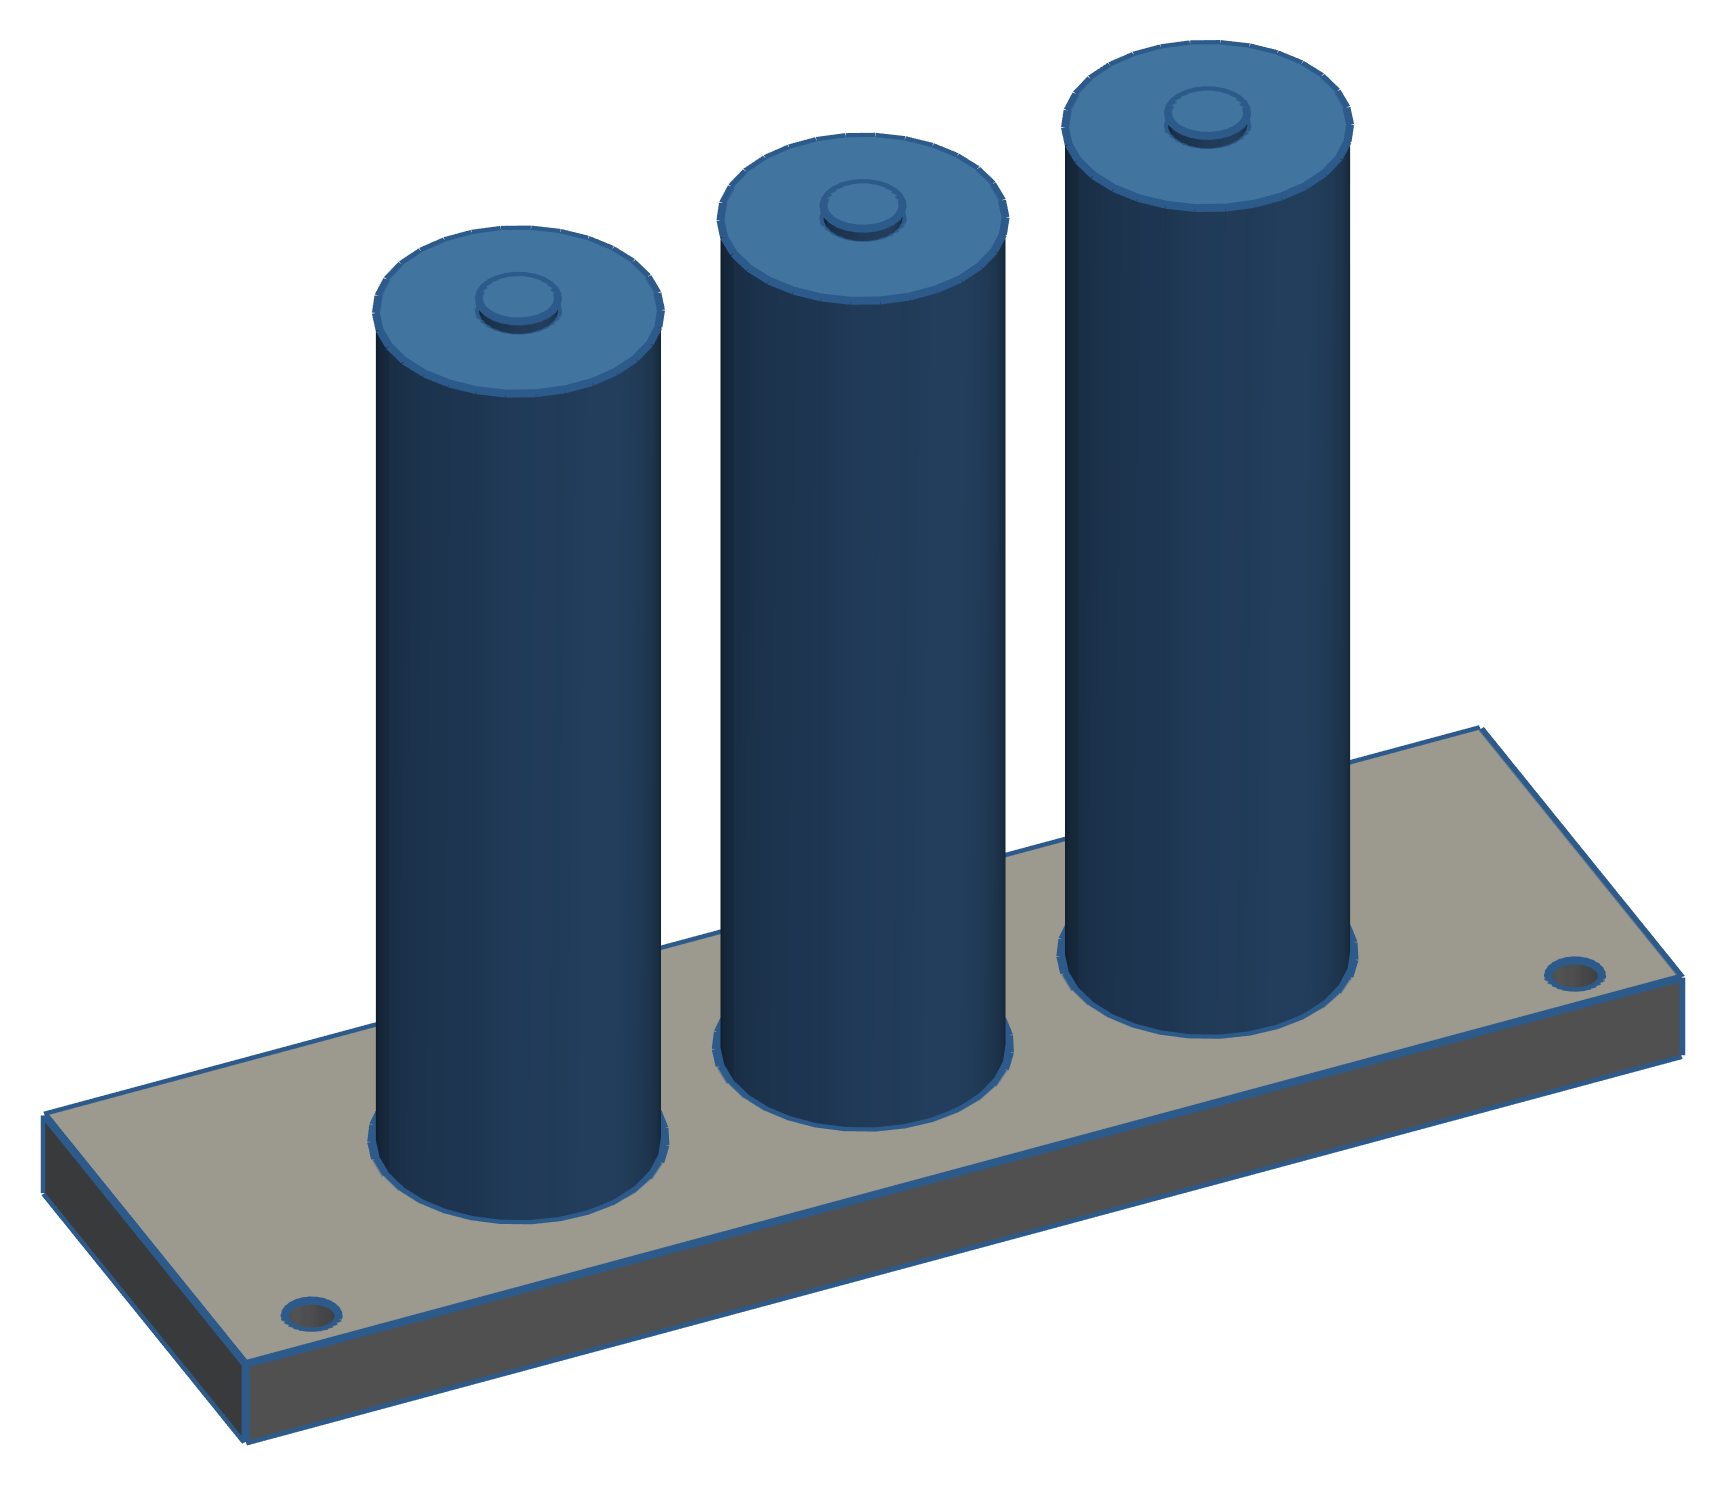
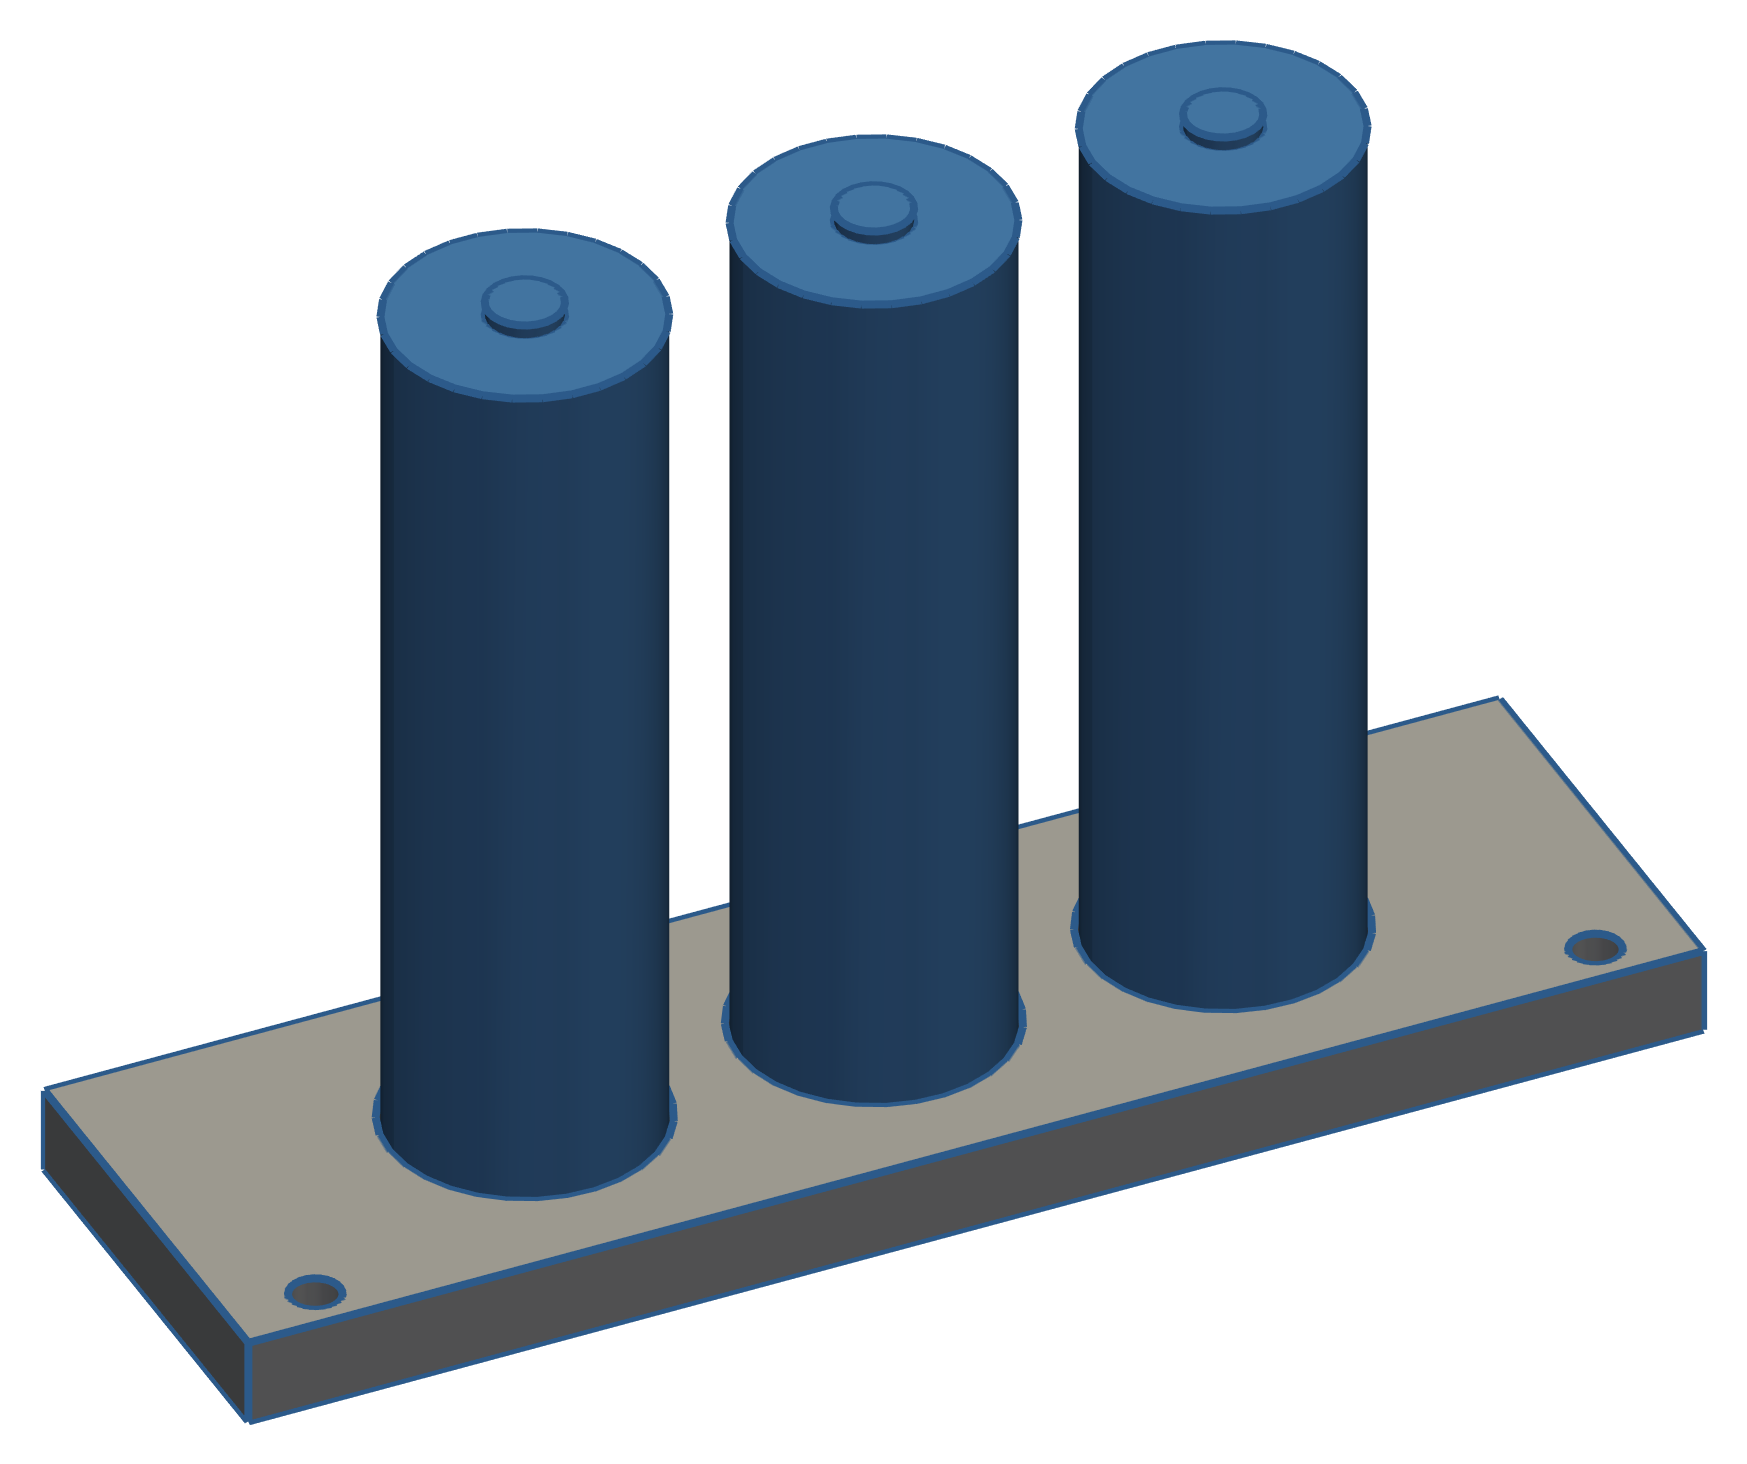
Chapter 9/12 leftovers

diff --git a/figures/ch09_battery_module.py b/figures/ch09_battery_module.py
@@ -1,9 +1,11 @@
 """Figure: the battery module from Chapter 9 ("Assembling the Battery
-Module") - Chapter 4's own tray plus three of Chapter 3/4's own
-make_cell cylinders, placed by a plain loop over Locations and named as
-a cq.Assembly. The figure itself renders the plain shapes (pyvista_cad
+Module") - Chapter 4's tray plus three of Chapter 3/4's make_cell
+cylinders, placed by a plain loop over Locations and named as a
+cq.Assembly. The figure itself renders the plain shapes (pyvista_cad
 draws Shapes, not Assembly trees), colored the same way the assembly's
-own cq.Color calls do, to match the book's own screenshot conventions.
+cq.Color calls do, to match the book's screenshot conventions. Cells
+seat in their pockets (z = thickness - pocket_depth), matching the
+chapter's placement fix.
 """
 
 from cadquery import func as cf
@@ -36,7 +38,7 @@ def make_cell(r_cell, h_cell, r_terminal=2.5, h_terminal=1.0):
 
 
 cell = make_cell(9.0, 65.0)
-cells = [cell.translate(((i - 1) * 24.0, 0, thickness)) for i in range(3)]
+cells = [cell.translate(((i - 1) * 24.0, 0, thickness - pocket_depth)) for i in range(3)]
 
 shapes = [tray] + cells
 colors = ["#b0b0b0"] + ["#4a86c5"] * 3

diff --git a/chapters/ch09-assemblies-and-release-pipelines.md b/chapters/ch09-assemblies-and-release-pipelines.md
@@ -126,14 +126,49 @@
 %   (fixture, diff) don't call tray() at all - checked by reading, confirm
 %   when running.
 % PLACEMENT BUG, decided by David 2026-07-12 ("resting on top is not
-% intended"), NOT YET FIXED: battery_module (both versions) and the ch09
-% figure script place cells at z=TRAY_THICKNESS (6.0) - on the plate's top
-% surface, hovering OVER the pockets (which span z 3..6). Cells must seat
-% at z = TRAY_THICKNESS - POCKET_DEPTH = 3.0. The constraints section's
-% celebrated z=6.0 (Plane to faces(">Z")) has the same issue - the plate
-% top is not the pocket floor; that section needs a pocket-floor face
-% selection and rewritten prose (solved z becomes 3.0). Figure needs
-% re-rendering. Full checklist: private/TODO-handoff.md item 1.
+% intended") - FIXED 2026-07-12 (Sonnet, continuing Fable's session).
+% battery_module (both the no-arg and CellSpec-taking versions) and the
+% ch09 figure script now seat cells at z = TRAY_THICKNESS - POCKET_DEPTH
+% = 3.0, not 6.0. models.py gained a POCKET_DEPTH = 3.0 constant
+% (imported alongside TRAY_THICKNESS) so every script reads it rather
+% than retyping 3.0. The constraints section was rewritten: faces(">Z")
+% is the plate top, not the pocket floor, so it now selects the second
+% face group down (">Z[1]"), picks the middle pocket's floor with a
+% plain min() over face centers, and constrains via constrain()'s
+% object form (name + Face, not a selector string, since no string
+% selector can say "the middle one"). Solved z now comes back 3.0 as
+% claimed. figures/ch09_battery_module.py line 39 fixed the same way
+% and re-rendered - the new render visibly shows cells seated with a
+% ring at the pocket rim, reads better than the old floating version.
+% Verified end to end: full ch9_verify.py rerun reproduces every quoted
+% number unchanged (tray 15445.6, cells 16305.7 x3, pack children/
+% traverse 8, constraints solve (~0,~0,3.0), STEP roundtrip, fixture
+% valid, diff True 2 141.3) - the placement fix does not touch any
+% volume, exactly as expected. PDF pages re-rendered and checked: both
+% the constraints section and the new Design Change section fit their
+% code blocks cleanly with no orphaned fragments.
+%
+% "A Design Change" section - VERIFIED 2026-07-12 (was drafted without
+% execution; every claim in the prior note now confirmed against the
+% installed packages):
+% - tray()'s pockets ARE plain r=9.3 cylinders, no lead-in fillet.
+% - test_cell_seats_in_pocket run verbatim via pytest: 18650 passes
+%   (interference 0.0, kernel returns exactly zero, not an epsilon);
+%   21700 fails with interference 223.93272... mm^3, matching the
+%   analytic pi*(10.5^2-9.3^2)*3.0 = 223.93 to 5 digits ("roughly 224"
+%   in prose is accurate). Pytest's failure line names
+%   "test_cell_seats_in_pocket[21700]" exactly as the prose claims.
+% - tray(spec) fix implemented and run: both variants isValid True,
+%   21700 leaves a 2.4 mm web between pockets (24 - 2*(10.5+0.3)),
+%   zero interference for both, release loop reruns and prints
+%   {'tray': 1, 'cell_9.0': 3} / {'tray': 1, 'cell_10.5': 3} unchanged.
+% - Confirmed by reading the rendered PDF: the mid-chapter tray() ->
+%   tray(spec) signature change reads correctly - every section before
+%   "A Design Change" calls the no-arg tray() and is narratively
+%   pre-fix; fixture_for and geometric_diff after it don't call tray()
+%   at all, so nothing downstream contradicts the signature change.
+% Full checklist retired: private/TODO-handoff.md items 1 and 2 both
+% closed.
 
 This chapter takes finished parts and turns them into a product:
 assembled into a named, colored structure, exchanged through the
@@ -443,7 +478,7 @@ def battery_module(spec: CellSpec) -> cq.Assembly:
     cell = make_cell(spec)
     for i in range(3):
         x = (i - 1) * 24.0
-        loc = cq.Location((x, 0, TRAY_THICKNESS))
+        loc = cq.Location((x, 0, TRAY_THICKNESS - POCKET_DEPTH))
         assy.add(cell, name=f"cell_{i}", metadata={"part": f"cell_{spec.r_cell}"}, loc=loc)
     return assy
 ```

diff --git a/chapters/ch12-searching-the-design-space.md b/chapters/ch12-searching-the-design-space.md
@@ -70,6 +70,15 @@
 % order judged sound; known forward reference: the quadratic-penalty
 % numbers cite "the search" before any algorithm is introduced -
 % deliberate, flagged to David, left as is.
+%
+% 2026-07-12 (Sonnet, continuing Fable's session): holder_objective's
+% except-clause sentinel 1e8 -> float("inf"), decided by David to match
+% the buoy's convention (chapter argues specifically for inf). One clause
+% added tying the two objectives together. Reran the full DE search
+% (differential_evolution, seed=42, maxiter=40, popsize=10, tol=1e-4,
+% polish=False, ~220s) with the new sentinel: wall=0.656, volume=2260.3,
+% sigma_max=15.015 - EXACTLY unchanged from the 1e8 version. No prose
+% numbers needed updating.
 
 Every part this book has built so far was described by numbers the
 reader chose: a wall thickness typed into a function call, a fillet
@@ -509,7 +518,8 @@ rests against; nothing else is constrained.
 The objective wraps `max_stress` the same way the buoy's objective
 wrapped `evaluate` – minimize material, penalize the one constraint
 that matters, a maximum stress the plastic can actually survive with
-a safety margin built in:
+a safety margin built in, and fall back on the same `inf` for
+anything the mesher or solver cannot handle:
 
 ```python
 SIGMA_MAX = 15.0  # MPa, an allowable stress with margin below the material's yield
@@ -522,7 +532,7 @@ def holder_objective(x: np.ndarray) -> float:
         penalty = max(0.0, sigma_max - SIGMA_MAX) * 50.0
         return volume + penalty
     except Exception:
-        return 1e8
+        return float("inf")
 
 
 result = differential_evolution(
